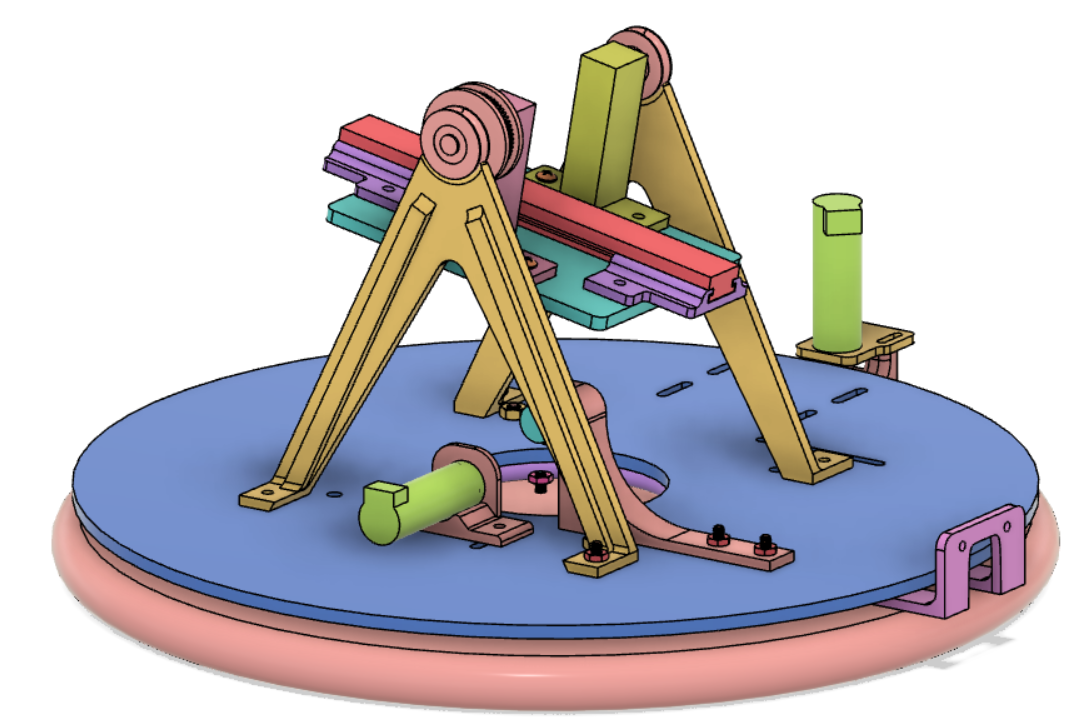
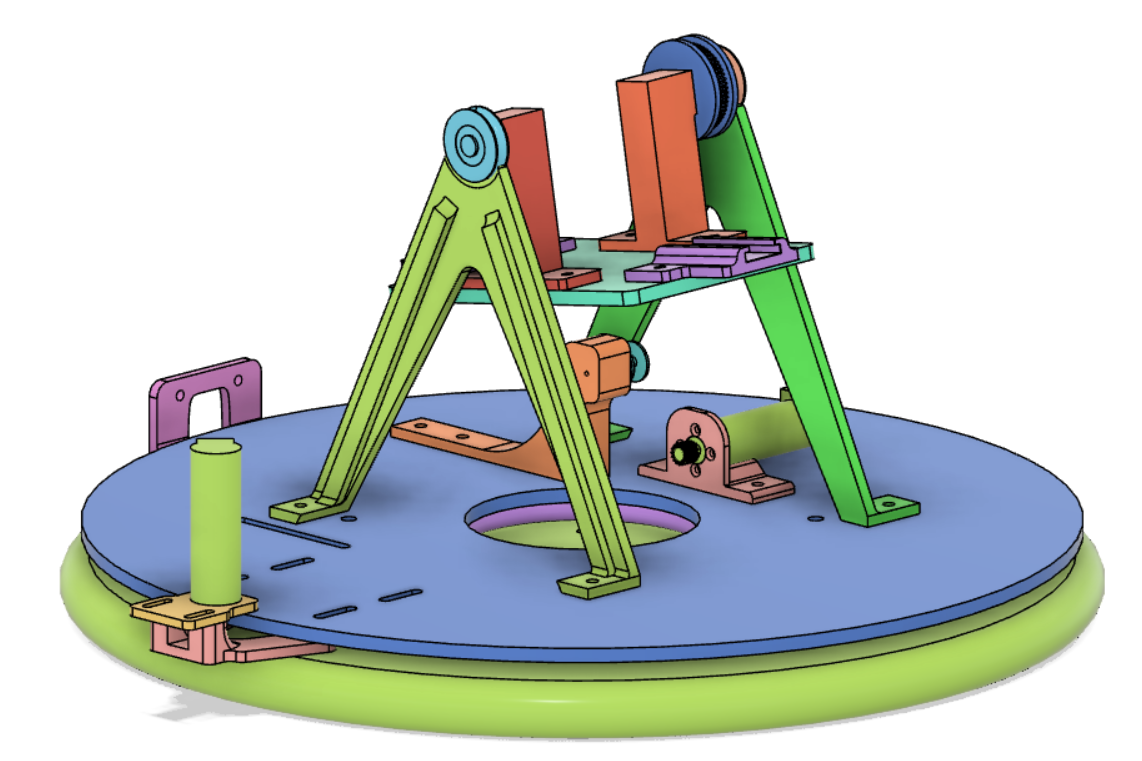
Readme updates

diff --git a/README.md b/README.md
@@ -6,23 +6,33 @@ This directory contains the code required to run an automated nerf turret using 
 
 ## Overview of Hardware
 Our hardware consists of a fully automatic nerf rifle placed on a pivoting stand that rotates on a turn table. The rifle mounting is custom 3D printed to allow for specific geometry that fits our off the shelf parts (including the rifle). We bypassed some of the internal electronics via breadboard, which is mounted to our acrylic turntable. The tilt of the stand and the rotation of the turntable are controlled by our tub motors, which are connected to our MCU that is also mounted to our turntable. The thermal camera and yaw motor are mounted to our fixed wooden base, and our cable routing accomodates for its rotation.
-| (a) Full CAD | (b) Color Coded |
-|     :---:    |     :---:      |
-| ![CAD_FULL_ISO](CAD_FULL_ISO.png) | ![CAD_FULL_COLOR](img/CAD_FULL_COLOR.png) |
-<p align=center> <b> Figure 2: </b> Full CAD Design
 
-We used a pair of 3D printed parts to connect to the rifle as shown in purple in figure 2b. These parts are screwed onto an acrylic plate shown 
+![CAD_FULL_COLOR](img/CAD_FULL_COLOR.png) |
+<p align=center> <b> Figure 2: </b> Full CAD Design, Color Coded
 
-For the yaw control, the motors are attached to the outside of the turntable. The turntable has teeth on the perimeter, allowing it to interact with the turntable. The wires are conncted through the middle of the table. The wires are long enough that the orientation of the stand does not effect the connection between the microcontroller and the motor.
+We used a pair of 3D printed parts to connect to the rifle (purple) in figure 2b. These parts are screwed onto an acrylic plate (cyan), which also connects to two pivot points via 3D printed parts (red and orange). One of these pivots also connects to a 3D printed gear which controls the pitch of the gun for aiming. The motor (green and pink) and the belt tensioner (orange and cyan) are shown on the right and center of the assembly image respectively.
 
-The thermal camera is mounted to the base of the turn table, ensuring that it is always facing the same position, not matter how the gun rotates. This is due to the rules of the competition that this turret competed in. Since we do not need to hit a moving target, we only need to know where our target is after at a set amount of time.
+For the yaw control, the motor is attached to the outside of the turntable as shown on the left of figure 2. A long strip of GT2 belt was superglued to the perimeter of the acrylic base plate (blue) which engages with the teeth of our tub motor (green) shown on the left of figure 2. Because of this mounting, the motor does not rotate with the acrylic plate. The wires are twisted together and route under the wood base plate and up through a hole in its center. The wires are long enough that the orientation of the stand does not effect the connection between the microcontroller and the motor. The perimeter belt does not make a complete loop, preventing full rotations and protecting the wiring.
+
+The acrylic base plate (blue) was laser cut, and contains extra mounting slots since part of the design had to be changed after the plate was machined (see the Results section below). This acrylic plate connects to our wood base plate via a lazy susan style turntable from Home Depot. The wood base plate is also one of their stock parts, and we drilled mounting holes for our mounting bolts and added thick rubber feet to give room for our wiring and add grip to the turret.
+
+The thermal camera is mounted to the base of the turn table, ensuring that it is always facing the same position, not matter how the gun rotates. This is due to the rules of the competition that this turret competed in, as the target was only given to be in front of the turret.
 
 The microcontroller and the breadboard circuit for firing the gun are attached to the same turntable as the stand. The firing circuit is composed of two switches that connect directly to the two motors of the blaster; one motor for the piston that loads the dart and one for running the flywheel that propels the dart out of the blaster. The switches are set up to be simple motor driver circuits with logic level, NMOS transistors. The gate of the NMOS' are connected to the STM32 and use a 3.3V output pulse to turn on the switch. The switch is driving the motor in series and has a flyback diode to protect from a potential voltage spike within the circuit. 
 
 ## Overview of Software
-Our software preforms three main jobs, controlling the motors, determine where the target is from the camera, and timing the firing with motors to ensure it is only fired at a certain point. The camera only begin firing after 5 seconds have passed, since this it when the target will stop moving. The rifle will only fire once the motors indicate that they are withing a certain tolerance of the target. More indepth overview of our code can be found at (INSERT DOXYGEN LINK HERE)
+Our software preforms three main jobs, controlling the motors, determine where the target is from the camera, and timing the firing with motors to ensure it is only fired at a certain point. The camera only begin firing after 5 seconds have passed, since this it when the target will stop moving. The rifle will only fire once the motors indicate that they are withing a certain tolerance of the target. More indepth overview of our code can be found in our accompanying code documentation generated by doxygen, located in our github docs folder or at our documentation page link.
 
 ![Task Diagram](TaskDiagram.png)
+<p align=center> <b> Figure 3: </b> Task Diagram
 
 ## Results
-Due to quality of parts and time constrains, our physical system did not preform as well as intended. Due to our gears for the pitch control being too weak, we could not control the pitch of the gun accurately. This meant that our final design did not have any pitch control. The MOSFETs we were using for our firing mechanism were damaged during our testing, resulting in our firing mechanism also failing. Since MOSFETs are voltage driven devices, regulation of the input voltage is crucial to preserving the longevity of the device. The only part of our design that performed adequately was the yaw accuracy. The turret was able to reach it's desired location, which was determined by the thermal camera, almost every time.
+Our overall project was well designed and implemented, with a few major hurdles that were cleared during design and one last minute roadblock that caused a critical failure in our system.
+
+Our heavy reliance on 3D printed parts allowed for simple custom geometry that was much easier to develop than could be done by hand, such as the mounting parts for the tub motors. However, other parts required multiple iterations. Some parts needed redesigns as they were not made with the correct tolerances and features for smooth and accurate 3D printing. Other parts experienced critical print failures due to difficulties with the machine, but some (such as the pivots mentioned above) could be used by re-drilling failed mounting holes by hand in the lab.
+
+The largest design change came when we changed our entire yaw control design. Our first iteration, shown in figure 4, included a fixed central gear and a plate-mounted motor, but this design is impossible to use for our tub motors. When two gears orbit each other on a belt they do not rotate with respect to each other; their motion is purely translation no matter what their size ratio is (assuming they do not make contact). This means that our tub motor would only make one rotation for every full rotation of the acrylic plate, which is a *terrible* gear ratio. We discovered this issue when the initial design was assembled, since as soon as the teeth of the pulley engaged the motor immediately stopped. This prompted our perimeter-tooth-redesign that is slow but steady and accurate.
+
+Our pitch motor also suffers from a poor gear ratio, which gives us very limited control over the pitch angle of our turret. Fortunately only one angle of rotation is required and our system controls two additional motors, the flywheel and loading pin, covering our motor quota. For these reasons the pitch was designed and assembled, but not implemented.
+
+The MOSFETs we were using for our firing mechanism were damaged during our testing, resulting in our firing mechanism also failing. Since MOSFETs are voltage driven devices, regulation of the input voltage is crucial to preserving the longevity of the device.
